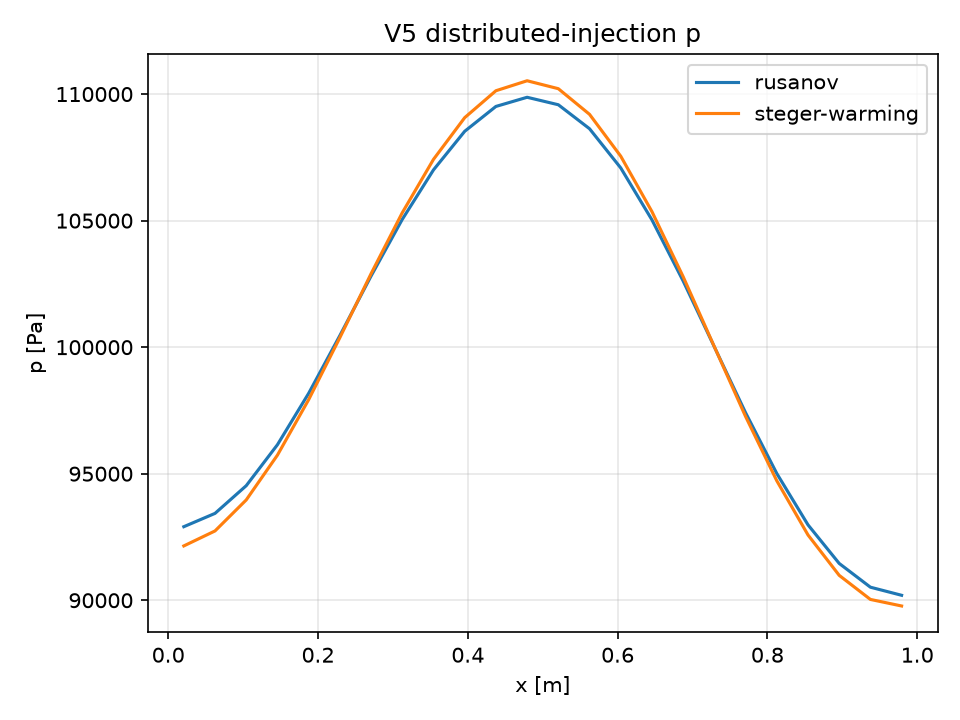
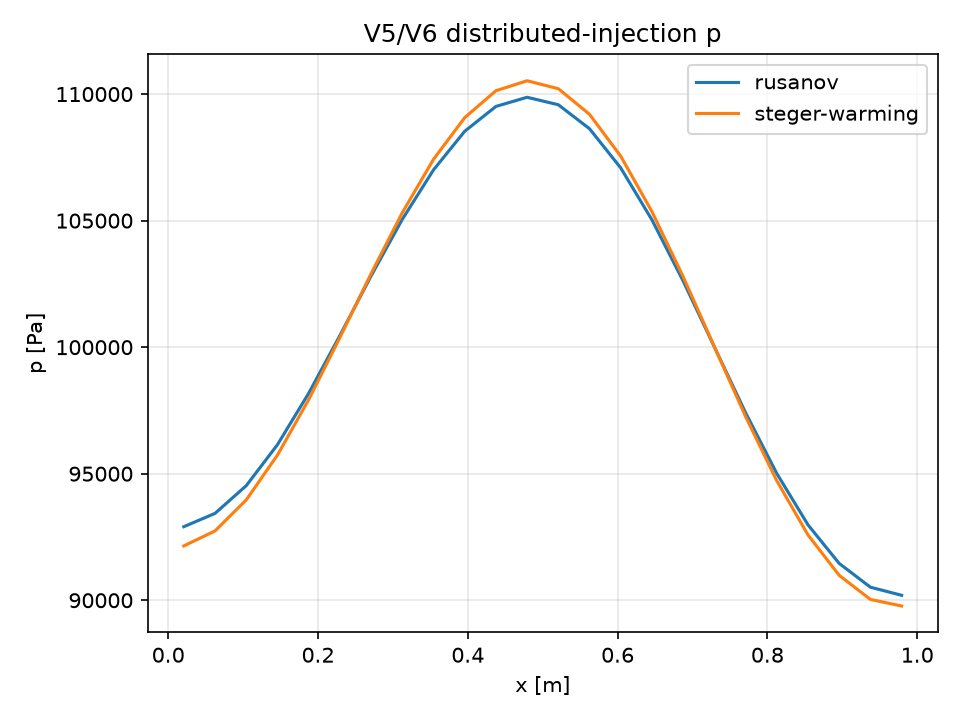
docs: finalize P7 fuel validation closure

Changed region(s): [[0.375, 0.0306, 0.75, 0.0611]]

diff --git a/cases/baseline/p7_4_fuel_injection_validation.py b/cases/baseline/p7_4_fuel_injection_validation.py
@@ -138,7 +138,10 @@ def _exact_uniform():
                 "classification": "roundoff-limited / exact-source benchmark passed",
             }
             rows.append(record)
-            profiles[f"{scheme}_{int(velocity)}"] = result.U[:, 0]
+            profiles[f"{scheme}_{int(velocity)}"] = {
+                "numerical": np.array(result.U, copy=True),
+                "exact": np.array(exact, copy=True),
+            }
     return rows, profiles
 
 
@@ -300,14 +303,17 @@ def _distributed_transient():
     return data, profiles
 
 
-def _scheme_comparison(profiles):
+def _scheme_comparison(profiles, transient):
     comparison = {}
     for name, field in (("rho", "rho"), ("pressure", "p"), ("mach", "mach")):
         norms = _norms(profiles["rusanov"][field], profiles["steger-warming"][field])
         comparison[f"{name}_l1_difference"] = norms["l1"]
         comparison[f"{name}_l2_difference"] = norms["l2"]
         comparison[f"{name}_linf_difference"] = norms["linf"]
-    comparison["both_physical"] = True
+    comparison["both_physical"] = bool(
+        transient["rusanov"]["physical"]
+        and transient["steger-warming"]["physical"]
+    )
     comparison["qualitatively_consistent"] = bool(max(
         comparison["rho_linf_difference"], comparison["pressure_linf_difference"], comparison["mach_linf_difference"]
     ) < 0.10)
@@ -317,10 +323,45 @@ def _scheme_comparison(profiles):
 
 def _plots(output, exact, scaling, cfl, profiles):
     x = exact["x"]
-    for key, values in exact.items():
-        if key != "x":
-            plt.plot(x, values, marker="o", label=key)
-    _save(output / "exact_uniform.png", "V1 exact uniform fuel-source density", "x [m]", "rho [kg/m^3]")
+    labels = (("density", 0, "rho [kg/m^3]"), ("momentum", 1, "rho u [kg/(m^2 s)]"), ("energy", 2, "rho E [J/m^3]"))
+    representative = {scheme: exact[f"{scheme}_100"] for scheme in SCHEMES}
+    figure, axes = plt.subplots(3, 1, figsize=(7, 9), sharex=True)
+    for axis, (name, component, ylabel) in zip(axes, labels):
+        axis.plot(x, representative["rusanov"]["exact"][:, component], "k--", linewidth=2, label="analytical")
+        for scheme in SCHEMES:
+            axis.plot(x, representative[scheme]["numerical"][:, component], marker="o", label=scheme)
+        axis.set_title(f"V1 exact vs numerical {name} (u_f = 100 m/s)")
+        axis.set_ylabel(ylabel)
+        axis.grid(True, alpha=0.3)
+        axis.legend()
+    axes[-1].set_xlabel("x [m]")
+    figure.tight_layout()
+    figure.savefig(output / "exact_uniform.png", dpi=150)
+    plt.close(figure)
+
+    for name, component, ylabel in labels:
+        analytical = representative["rusanov"]["exact"][:, component]
+        plt.plot(x, analytical, "k--", linewidth=2, label="analytical")
+        for scheme in SCHEMES:
+            plt.plot(x, representative[scheme]["numerical"][:, component], marker="o", label=scheme)
+        _save(output / f"exact_uniform_{name}.png", f"V1 exact vs numerical {name} (u_f = 100 m/s)", "x [m]", ylabel)
+
+    figure, axes = plt.subplots(3, 1, figsize=(7, 9), sharex=True)
+    for axis, (name, component, ylabel) in zip(axes, labels):
+        for scheme in SCHEMES:
+            for velocity in (0, 100):
+                values = np.abs(exact[f"{scheme}_{velocity}"]["numerical"][:, component] - exact[f"{scheme}_{velocity}"]["exact"][:, component])
+                nonzero = values > 0.0
+                if np.any(nonzero):
+                    axis.semilogy(x[nonzero], values[nonzero], marker="o", label=f"{scheme}, u_f={velocity:g}")
+        axis.set_title(f"V1 absolute {name} error (zero errors omitted on log scale)")
+        axis.set_ylabel(f"|error| [{ylabel.split(' [', 1)[1]}")
+        axis.grid(True, alpha=0.3)
+        axis.legend()
+    axes[-1].set_xlabel("x [m]")
+    figure.tight_layout()
+    figure.savefig(output / "exact_uniform_error.png", dpi=150)
+    plt.close(figure)
 
     for scheme in SCHEMES:
         increments = np.asarray(scaling[scheme]["increments"])
@@ -333,10 +374,11 @@ def _plots(output, exact, scaling, cfl, profiles):
         plt.plot([row["cfl"] for row in rows], cfl[scheme]["aggregate_linf_errors"], marker="o", label=scheme)
     _save(output / "cfl_sensitivity.png", "V4 timestep sensitivity against CFL=0.025", "CFL [-]", "maximum relative Linf difference [-]")
 
-    for field, label in (("rho", "rho [kg/m^3]"), ("p", "p [Pa]"), ("mach", "Mach [-]")):
+    for field, label in (("rho", "rho [kg/m^3]"), ("u", "u [m/s]"), ("p", "p [Pa]"), ("T", "T [K]"), ("mach", "Mach [-]")):
         for scheme in SCHEMES:
             plt.plot(profiles["x"], profiles[scheme][field], label=scheme)
-        _save(output / ("distributed_profiles.png" if field == "rho" else f"distributed_{field}.png"), f"V5 distributed-injection {field}", "x [m]", label)
+        filename = "distributed_profiles.png" if field == "rho" else f"distributed_{field}.png"
+        _save(output / filename, f"V5/V6 distributed-injection {field}", "x [m]", label)
 
     for scheme in SCHEMES:
         plt.plot(profiles["x"], profiles[scheme]["mach"], label=f"{scheme} Mach")
@@ -384,7 +426,7 @@ def run(output_directory=None):
     scaling, scaling_rows = _source_scaling()
     cfl, cfl_rows = _cfl_sensitivity()
     transient, profiles = _distributed_transient()
-    comparison = _scheme_comparison(profiles)
+    comparison = _scheme_comparison(profiles, transient)
     metrics = {
         "exact_uniform": exact_rows,
         "integral_conservation": conservation,

diff --git a/tests/test_p7_4_fuel_validation.py b/tests/test_p7_4_fuel_validation.py
@@ -31,10 +31,16 @@ def test_p7_4_validation_generates_required_artifacts_and_hard_gate_metrics(tmp_
         "cfl_sensitivity_metrics.csv",
         "scheme_comparison_metrics.csv",
         "exact_uniform.png",
+        "exact_uniform_density.png",
+        "exact_uniform_momentum.png",
+        "exact_uniform_energy.png",
+        "exact_uniform_error.png",
         "strength_scaling.png",
         "cfl_sensitivity.png",
         "distributed_profiles.png",
+        "distributed_u.png",
         "scheme_comparison.png",
+        "distributed_T.png",
         "validation_report.md",
     ):
         assert (tmp_path / filename).is_file()
@@ -64,5 +70,22 @@ def test_p7_4_validation_generates_required_artifacts_and_hard_gate_metrics(tmp_
         assert transient["physical"]
 
     comparison = metrics["scheme_comparison"]
+    assert comparison["both_physical"] == (
+        metrics["distributed_transient"]["rusanov"]["physical"]
+        and metrics["distributed_transient"]["steger-warming"]["physical"]
+    )
     assert comparison["both_physical"]
     assert comparison["qualitatively_consistent"]
+
+
+def test_scheme_comparison_derives_physical_status_from_both_transients() -> None:
+    """Catch a comparison that reports physical status without using run outcomes."""
+    script = Path(__file__).parents[1] / "cases" / "baseline" / "p7_4_fuel_injection_validation.py"
+    module = runpy.run_path(str(script))
+    profiles = {
+        "rusanov": {"rho": np.array([1.0]), "p": np.array([100000.0]), "mach": np.array([1.5])},
+        "steger-warming": {"rho": np.array([1.0]), "p": np.array([100000.0]), "mach": np.array([1.5])},
+    }
+    transient = {"rusanov": {"physical": True}, "steger-warming": {"physical": False}}
+
+    assert not module["_scheme_comparison"](profiles, transient)["both_physical"]

diff --git a/docs/p7_fuel_injection_validation.md b/docs/p7_fuel_injection_validation.md
@@ -61,6 +61,12 @@ cannot demonstrate third-order temporal convergence. It verifies source
 mapping, conservative source integration, both solver branches, and the
 absence of unintended extra source terms.
 
+The generated figures explicitly show the analytical conservative profiles
+together with both numerical branches for density, momentum, and energy. An
+absolute-error figure retains the measured floating-point errors; exact zero
+errors are omitted only from its logarithmic display, never replaced in the
+metrics.
+
 ## V2 — Discrete integrated-source conservation
 
 V2 uses a positive sinusoidally varying area profile with 31 cells, plus
@@ -128,6 +134,8 @@ On the V5 case, final relative Linf differences between the two schemes are
 `5.818e-3` for density, `6.871e-3` for pressure, and `4.893e-3` for Mach.
 Both states are physical and retain qualitatively consistent smooth profiles.
 This is not a universal accuracy or robustness ranking of the two schemes.
+The V6 `both_physical` result is derived directly from the two V5 transient
+physical-state flags, rather than being a fixed status value.
 
 ## Result artifacts
 
@@ -137,9 +145,10 @@ This is not a universal accuracy or robustness ranking of the two schemes.
   `strength_scaling_metrics.csv`, `cfl_sensitivity_metrics.csv`, and
   `scheme_comparison_metrics.csv`;
 - `metrics.json` and `validation_report.md`;
-- `exact_uniform.png`, `strength_scaling.png`, `cfl_sensitivity.png`,
-  `distributed_profiles.png`, and `scheme_comparison.png` (plus pressure and
-  Mach distributed-profile plots).
+- `exact_uniform.png`, separate exact-vs-numerical density, momentum, and
+  energy plots, plus an absolute-error plot;
+- `strength_scaling.png`, `cfl_sensitivity.png`, and `scheme_comparison.png`;
+- separate distributed `rho(x)`, `u(x)`, `p(x)`, `T(x)`, and `Mach(x)` plots.
 
 ## Limitations and P7 conclusion
 
@@ -153,8 +162,22 @@ assesses numerical sensitivity but introduces no fuel-specific timestep
 limiter. Transmissive boundaries remain verification boundaries rather than
 final physical scramjet inlet/outlet conditions.
 
-Within those limits, P7's prescribed local and distributed fuel source has
-passed local exact conservative integration, discrete source conservation,
-source-strength scaling, controlled timestep sensitivity, and controlled
-distributed-transient checks. Formal P7 closure remains conditional on a
-successful CI run for the exact P7.4 commit; P8 combustion remains planned.
+The accepted P7.4 validation commit passed CI: the full automated regression
+suite reported `519 passed in 40.71 s`. The final closure update, including
+the visual-integrity hard gate, passes `520` tests locally.
+
+Within the stated scope, P7 has now completed:
+
+- prescribed local fuel-source definition;
+- quasi-1D distributed source mapping;
+- solver integration and SSP-RK3 stage-wise evaluation;
+- exact conservative source verification;
+- discrete integral conservation verification;
+- source-strength linearity checks;
+- CFL/timestep sensitivity assessment;
+- controlled distributed-transient checks; and
+- Rusanov / Steger-Warming consistency comparison.
+
+Within the documented prescribed-source model limitations, P7 fuel injection
+is formally complete. P7 does not include combustion; P8 combustion remains
+planned.

diff --git a/README.md b/README.md
@@ -6,7 +6,7 @@ Develop a quasi-one-dimensional, compressible-flow CFD solver for scramjet and d
 
 ## Current Status
 
-Current stage: **P7.4 - Fuel-Injection Formal Validation**. Local validation is complete; P7 remains in progress until CI confirms the current commit. P8 combustion remains planned.
+Current stage: **P7 complete**. P7 fuel injection has completed prescribed-source definition, quasi-1D distribution, solver integration, and formal controlled validation. P8 combustion remains planned and has not started.
 
 P3 is complete: ideal-gas thermodynamics, primitive/conservative conversion, Euler physical flux, Rusanov numerical flux, finite-volume spatial residual, SSP-RK3, transmissive boundaries, CFL time stepping, a transient solver loop, a Sod-type shock-tube smoke test, automated tests, and GitHub Actions CI form the constant-area baseline solver.
 
@@ -41,7 +41,7 @@ Each item will be introduced and validated in a separate stage.
 - Third-order SSP Runge-Kutta time integration
 - CFL-based time stepping
 
-P7.3 integrates the prescribed distributed fuel mass/momentum/energy source into `solve_quasi_1d`, evaluated at every SSP-RK3 stage. P7.4 formally validates exact conservative source integration, discrete integral conservation, source-strength scaling, and controlled timestep sensitivity; see `docs/p7_fuel_injection_validation.md`. There is still no fuel species equation, combustion, LHV, or injector-profile model.
+P7.3 integrates the prescribed distributed fuel mass/momentum/energy source into `solve_quasi_1d`, evaluated at every SSP-RK3 stage. P7.4 formally verifies and controlled-validates the prescribed quasi-1D fuel-source model through exact conservative integration, discrete integral conservation, source-strength scaling, and controlled timestep sensitivity; see `docs/p7_fuel_injection_validation.md`. There is still no fuel species equation, combustion, LHV, injector-geometry, spray, or mixing model.
 
 ## Development Philosophy
 

diff --git a/docs/development_roadmap.md b/docs/development_roadmap.md
@@ -9,7 +9,7 @@
 | P4 | Complete | Variable area | Quasi-1D geometry support | Controlled-area case |
 | P5 | Complete | Steger-Warming + RK3 + CFL | Validated Rusanov / Steger-Warming quasi-1D schemes | Controlled convergence and robustness cases |
 | P6 | Complete | Friction & heat transfer | Separate source models | Per-model validation |
-| P7 | In Progress | Fuel injection | Prescribed local and distributed injection source | Local formal source-model validation complete; CI pending |
+| P7 | Complete | Fuel injection | Prescribed local and distributed injection source | Formal prescribed-source model validation |
 | P8 | Planned | Combustion | Heat-release model | Controlled combustion validation |
 | P9 | Planned | Boundary/stability improvements | Robust boundary handling | Edge-case test suite |
 | P10 | Planned | Verification & validation | Verified cases and comparisons | Conservation, benchmark, and grid checks |
@@ -49,4 +49,4 @@
 - P7.1 Prescribed Local Fuel Injection Source - Complete
 - P7.2 Quasi-1D Injection Distribution / Composition - Complete
 - P7.3 Solver Integration - Complete
-- P7.4 Fuel-Injection Validation - Local validation complete; CI pending (exact source, conservation, scaling, CFL sensitivity, and controlled transient)
+- P7.4 Fuel-Injection Validation - Complete (exact source, conservation, scaling, CFL sensitivity, and controlled transient)
